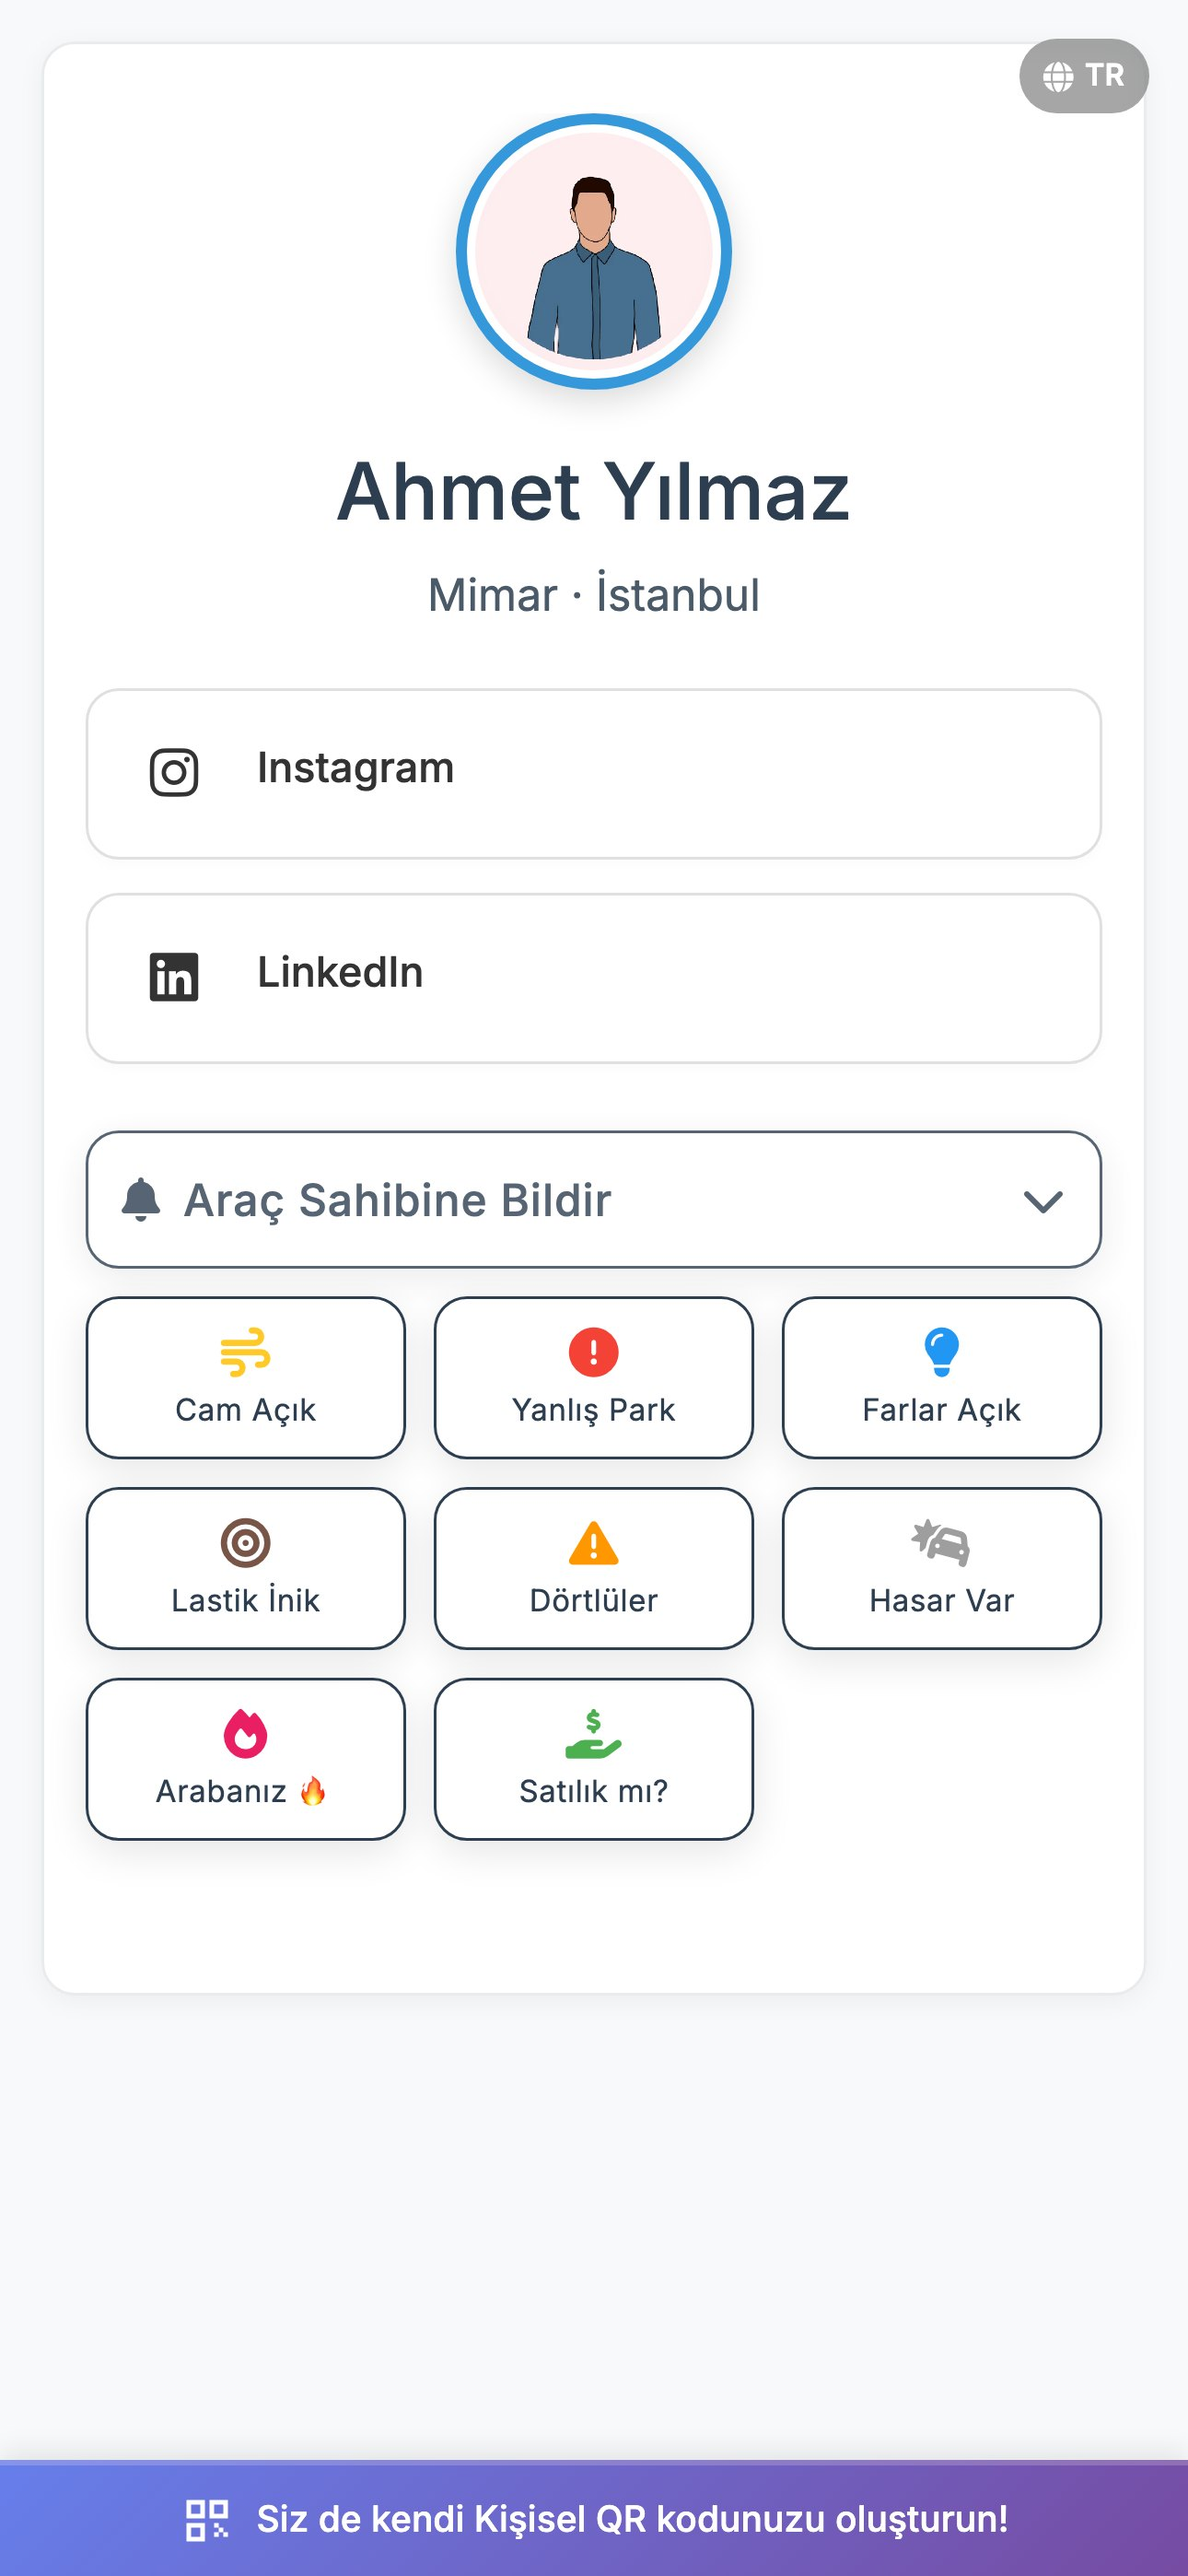
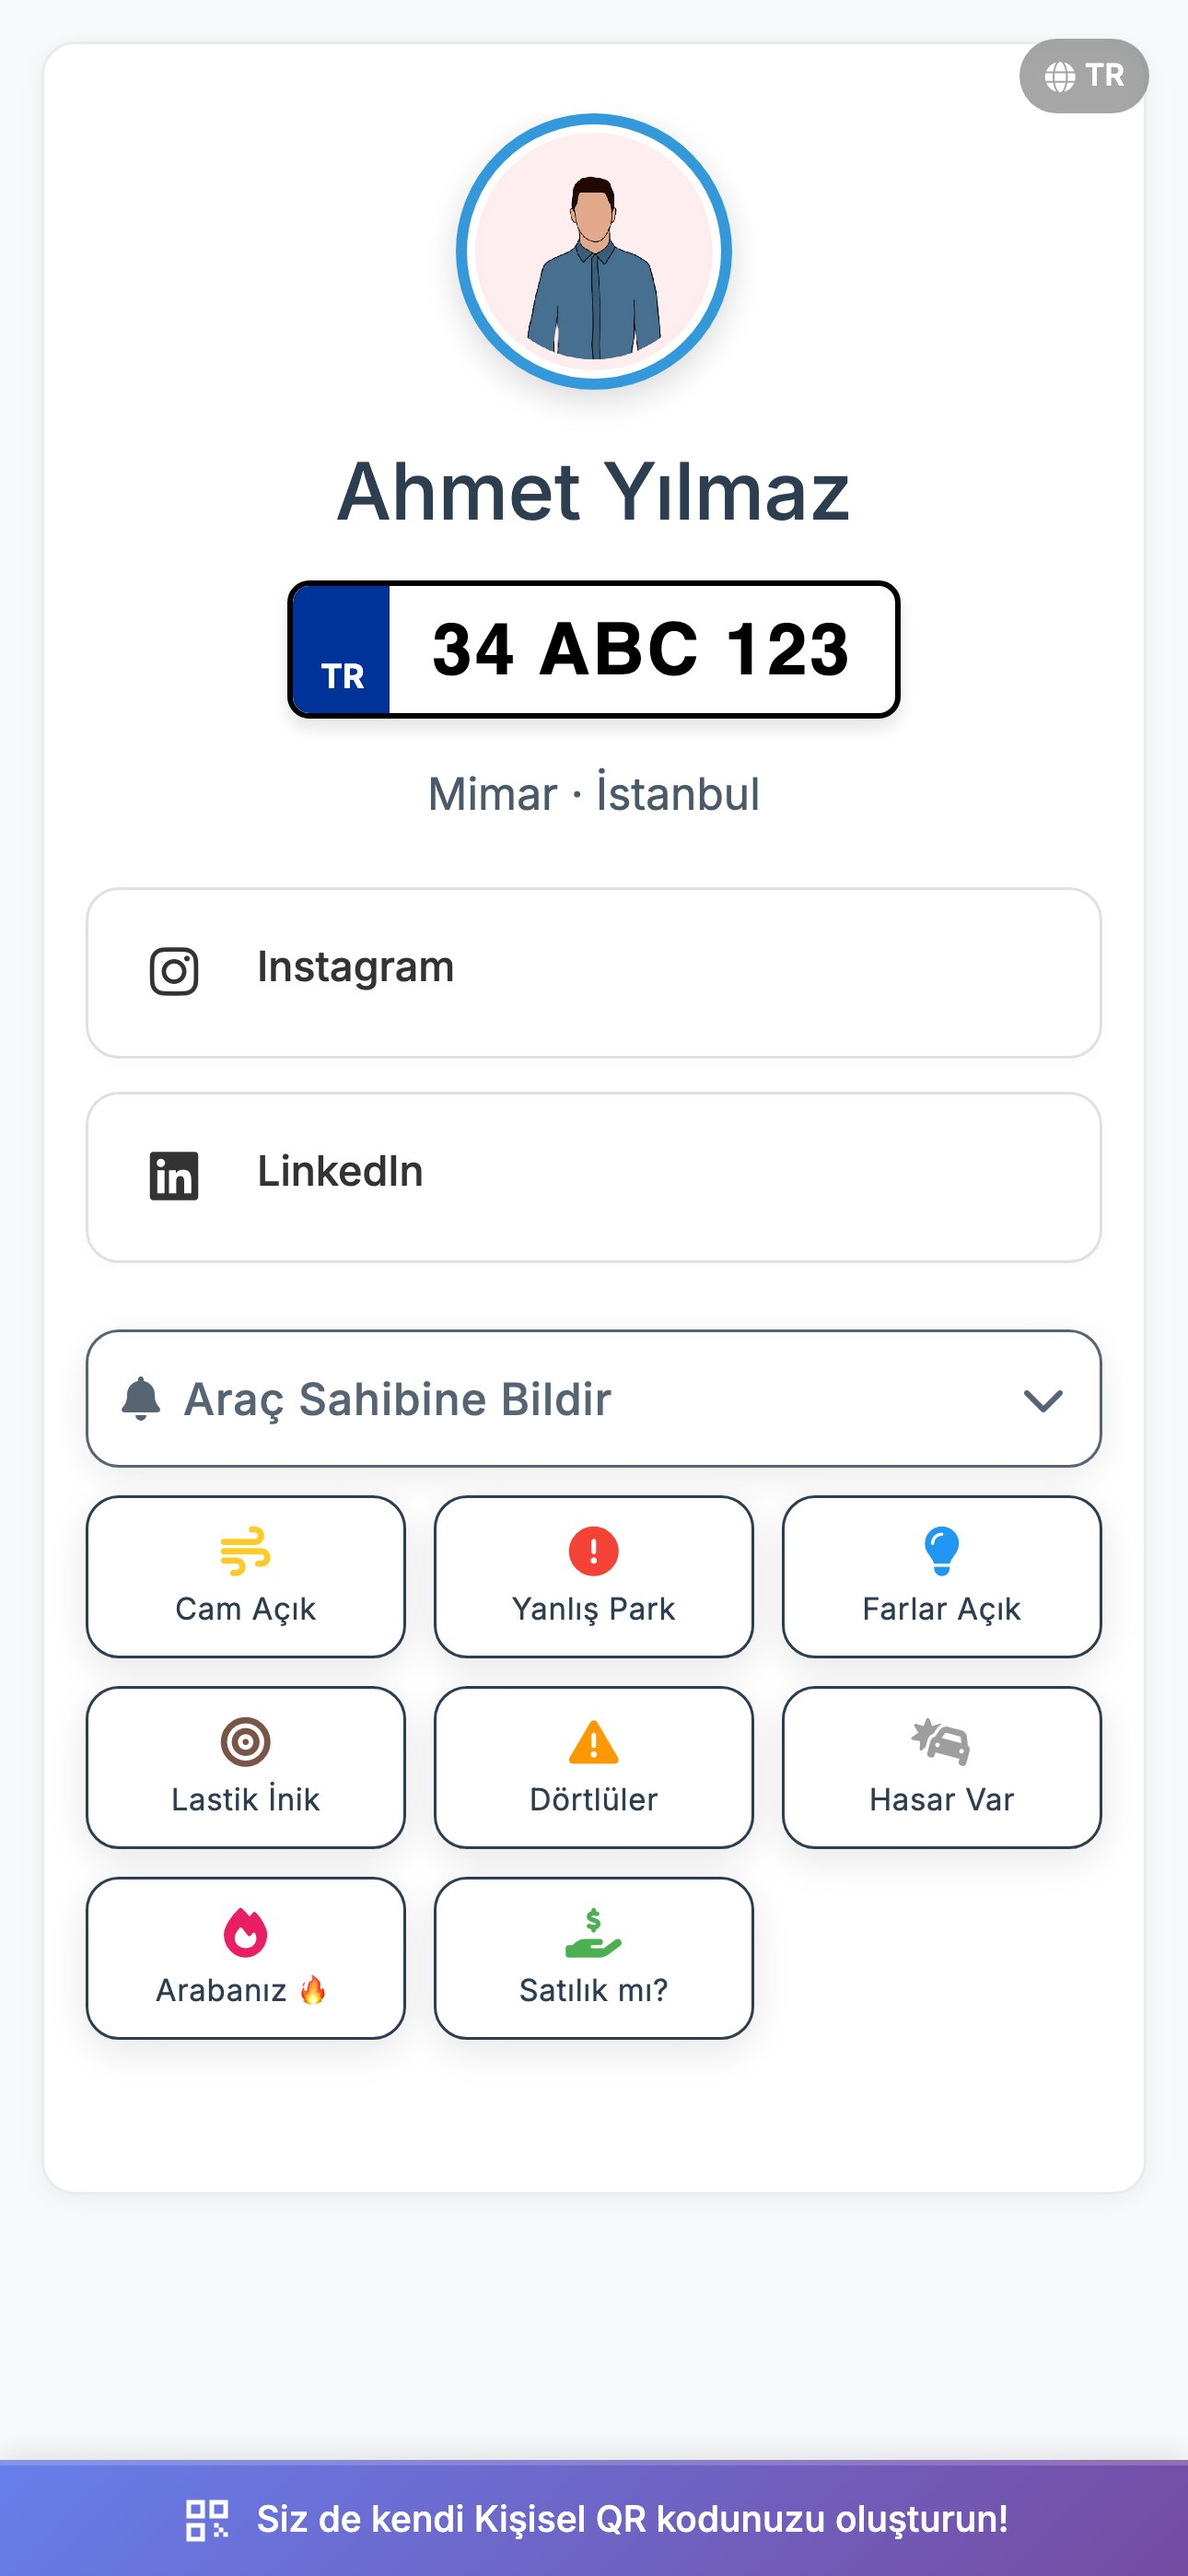
Tasarım 1: telefonda durum çubuğu, vitrin profiline plaka
- Telefon ekranının üstüne iPhone durum çubuğu (9:41, sinyal, Wi-Fi, pil) eklendi; sayfa onun altından
  başlıyor. Profil fotoğrafının üstü artık çentiğin altında kalmıyor. Altta ana ekran çubuğu.
- Vitrin profiline isim altında plaka 34 ABC 123 eklendi (kutudaki araçla aynı), profile.php'nin kendi
  plaka bloğuyla.

diff --git a/assets/tasarim1/tasarim1.js b/assets/tasarim1/tasarim1.js
@@ -216,7 +216,25 @@
     return h;
   }
 
-  // Telefon ekranı: demo profilin gerçek mobil ekran görüntüsü (kisiselqr.com/qr/071qydlb)
+  // Telefon ekranı: gerçek profil sayfasının mobil ekran görüntüsü, vitrin içeriğiyle (araclar/demo_ekran_goruntusu.py)
+  const EKRAN_ZEMIN = '#F8F9FB';   // profil sayfasının zemini (ekran görüntüsünden ölçüldü): durum çubuğu bununla dolar
+  // iPhone durum çubuğu: sol kulakta saat, sağ kulakta sinyal + Wi-Fi + pil. cy: çentiğin dikey ortası,
+  // c0/c1: çentiğin sol/sağ kenarı.
+  function durumCubugu(ctx, X, cy, SW, c0, c1) {
+    const k = '#111111', soluk = 'rgba(17,17,17,0.45)';
+    txt(ctx, '9:41', (X + c0) / 2, cy + 0.48, { size: 1.35, w: 600, color: k, align: 'center' });
+    const r0 = (c1 + X + SW) / 2 - 2.75, alt = cy + 0.42;
+    ctx.fillStyle = k;
+    [0.32, 0.48, 0.64, 0.8].forEach((hh, i) => { rr(ctx, r0 + i * 0.36, alt - hh, 0.24, hh, 0.06); ctx.fill(); });
+    const wx = r0 + 2.3;
+    ctx.strokeStyle = k; ctx.lineWidth = 0.14; ctx.lineCap = 'round';
+    [0.35, 0.6, 0.85].forEach(r => { ctx.beginPath(); ctx.arc(wx, alt, r, Math.PI * 1.25, Math.PI * 1.75); ctx.stroke(); });
+    ctx.beginPath(); ctx.arc(wx, alt - 0.06, 0.1, 0, Math.PI * 2); ctx.fill();
+    const bx = r0 + 3.45, by = cy - 0.38, bw = 1.85, bh = 0.82;
+    ctx.strokeStyle = soluk; ctx.lineWidth = 0.1; rr(ctx, bx, by, bw, bh, 0.24); ctx.stroke();
+    ctx.fillStyle = k; rr(ctx, bx + 0.16, by + 0.16, bw - 0.6, bh - 0.32, 0.12); ctx.fill();
+    ctx.fillStyle = soluk; rr(ctx, bx + bw + 0.08, by + 0.27, 0.12, 0.28, 0.05); ctx.fill();
+  }
   const BASE = (document.currentScript && document.currentScript.src || '').replace(/[^/]*$/, '');
   let SCREEN = null;
   function loadScreen() {
@@ -730,10 +748,15 @@
     ctx.fillStyle = '#101010'; rr(ctx, X, Yy, SW, SH, 3.1); ctx.fill();
     ctx.save(); rr(ctx, X, Yy, SW, SH, 3.1); ctx.clip();
     if (SCREEN) {
-      // genişliğe oturt, üstten hizala (alttaki fazlalık kırpılır)
+      // Üstte iPhone durum çubuğu (sayfa zemini rengi), sayfa onun altından başlar: ekran görüntüsü ekranın en
+      // üstünden başlayınca profil fotoğrafının üstü çentiğin altında kalıyordu. Genişliğe oturur, alt fazlalık kırpılır.
+      const SB = 3.5;
+      ctx.fillStyle = EKRAN_ZEMIN; ctx.fillRect(X, Yy, SW, SB + 0.2);
       const ih = SW * SCREEN.naturalHeight / SCREEN.naturalWidth;
-      ctx.drawImage(SCREEN, X, Yy, SW, ih);
+      ctx.drawImage(SCREEN, X, Yy + SB, SW, ih);
       ctx.fillStyle = C.K; rr(ctx, x + w / 2 - 4, Yy + 1.1, 8, 1.7, 0.85); ctx.fill();          // çentik
+      durumCubugu(ctx, X, Yy + 1.95, SW, x + w / 2 - 4, x + w / 2 + 4);
+      ctx.fillStyle = 'rgba(0,0,0,0.8)'; rr(ctx, x + w / 2 - 3.6, Yy + SH - 0.95, 7.2, 0.42, 0.21); ctx.fill();   // ana çubuk
       ctx.restore();
       return;
     }

diff --git a/araclar/demo_ekran_goruntusu.py b/araclar/demo_ekran_goruntusu.py
@@ -8,6 +8,7 @@ Vitrin: sayfanın kendisi (tasarım, CSS, butonlar) canlıdakiyle aynıdır; yal
   - isim ve kısa bilgi örnek bir kişiyle değiştirilir
   - telefon butonu kaldırılır: profilde "numarayı gizle" açıkken sayfa tam böyle görünür (kutunun vaadi)
   - WhatsApp bağlantısı numarayı açık ettiği için LinkedIn ile değiştirilir
+  - plaka (kutudaki araçla aynı) sayfanın kendi plaka bloğuyla isim altına eklenir
 
 Gereksinim: Google Chrome, pip install websocket-client
 Kullanım:   python araclar/demo_ekran_goruntusu.py [url]
@@ -24,11 +25,19 @@ CLICK = """(()=>{const c=[...document.querySelectorAll('button,a,[role=button],s
   const el=c.find(e=>e.tagName==='BUTTON'||e.tagName==='SUMMARY'||e.getAttribute('role')==='button')||c[0];
   if(el) el.click(); return !!el})()"""
 
-VITRIN = {'isim': 'Ahmet Yılmaz', 'bilgi': 'Mimar · İstanbul'}
+VITRIN = {'isim': 'Ahmet Yılmaz', 'bilgi': 'Mimar · İstanbul', 'plaka': '34 ABC 123'}   # plaka: kutudaki araçla aynı
 DOLDUR = """((V)=>{const q=s=>document.querySelector(s);
   const h=q('.profile-header h1'); if(h) h.textContent=V.isim;
   const im=q('.profile-photo'); if(im) im.alt=V.isim+' profil fotoğrafı';
   const b=q('.profile-header .bio'); if(b) b.textContent=V.bilgi;
+  // plaka: profile.php'nin kendi plaka bloğu (profilde plaka girilince isim altında bu işaretleme basılır)
+  if(h && V.plaka && !q('.license-plate-wrapper')) h.insertAdjacentHTML('afterend',
+    '<div class="license-plate-wrapper" style="display:flex;justify-content:center;margin:15px 0;">'+
+    '<div class="license-plate" style="display:inline-flex;align-items:stretch;background:#fff;border:2px solid #000;border-radius:8px;box-shadow:0 4px 6px rgba(0,0,0,0.1);overflow:hidden;height:50px;">'+
+    '<div class="tr-section" style="background:#003399;width:35px;display:flex;flex-direction:column;justify-content:flex-end;align-items:center;padding-bottom:4px;border-radius:6px 0 0 6px;">'+
+    '<span style="color:#fff;font-size:12px;font-weight:bold;">TR</span></div>'+
+    '<div class="plate-text" style="padding:0 15px;display:flex;align-items:center;justify-content:center;font-family:\\'Segoe UI\\',Roboto,Helvetica,Arial,sans-serif;font-size:26px;font-weight:800;color:#000;letter-spacing:1px;">'+
+    V.plaka.toUpperCase()+'</div></div></div>');
   document.querySelectorAll('.contact-info').forEach(e=>e.remove());
   document.querySelectorAll('a.social-list-btn').forEach(a=>{ if(/wa\\.me|whatsapp/i.test(a.href)){
     a.href='https://www.linkedin.com/'; const i=a.querySelector('i'); if(i) i.className='fab fa-linkedin';
